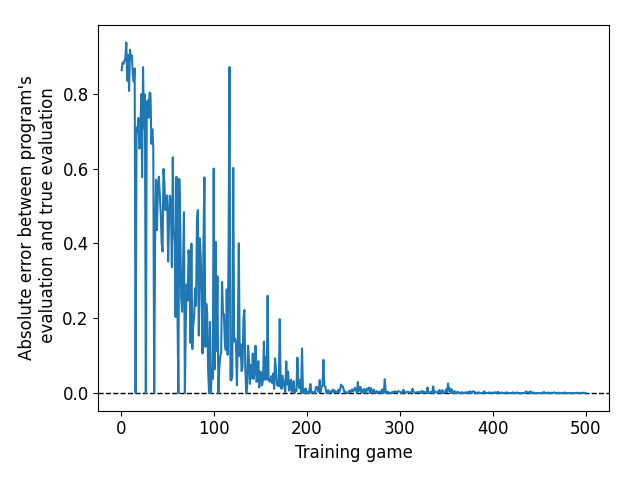
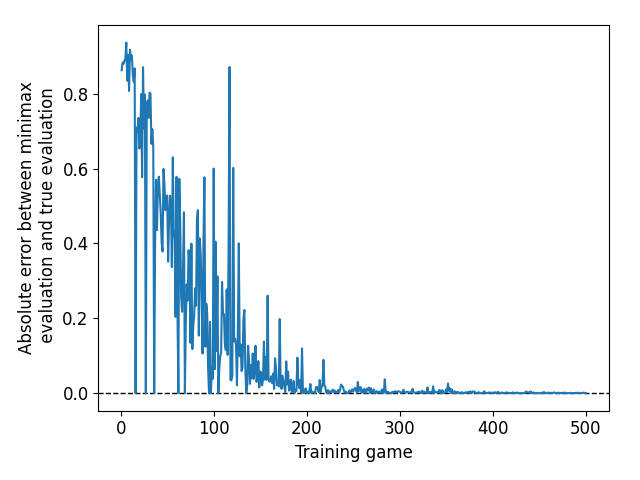
changed program eval to minimax eval

Changed region(s): [[0.0312, 0.1562, 0.0625, 0.75]]

diff --git a/src/game.py b/src/game.py
@@ -186,7 +186,7 @@ class Game:
         logger.info("Plotting reward losses")
         fig, ax = plt.subplots()
         plt.xlabel('Training game')
-        plt.ylabel("Absolute error between program's\n evaluation and true evaluation")
+        plt.ylabel("Absolute error between minimax\n evaluation and true evaluation")
         plt.axhline(0, color='black', linestyle='dashed', linewidth=1)
         # plt.xticks(range(1, len(reward_losses_1d)+1, 1))
         # plt.ylim(min(reward_losses_1d) - 0.1, max(reward_losses_1d) + 0.1)
@@ -221,7 +221,7 @@ class Game:
         # plt.xlabel('state')
         # plt.ylabel(f'{loss_name}_loss')
         plt.xlabel('Position index in training game')
-        plt.ylabel(f"Mean absolute error between program's\n evaluation and true evaluation ± 1 std")
+        plt.ylabel(f"Mean absolute error between minimax\n evaluation and true evaluation ± 1 std")
         plt.xticks(range(len(old_loss_mean)))
         plt.axhline(0, color='black', linestyle='dashed', linewidth=1)
         ax.errorbar(range(len(old_loss_mean)),

diff --git a/src/test.py b/src/test.py
@@ -102,7 +102,7 @@ def plot_reward_losses():
     logger.info("Plotting reward losses")
     fig, ax = plt.subplots()
     plt.xlabel('Training game')
-    plt.ylabel("Absolute error between program's\n evaluation and true evaluation")
+    plt.ylabel("Absolute error between minimax\n evaluation and true evaluation")
     plt.axhline(0, color='black', linestyle='dashed', linewidth=1)
     # plt.xticks(range(1, len(reward_losses_1d)+1, 1))
     # plt.ylim(min(reward_losses_1d) - 0.1, max(reward_losses_1d) + 0.1)
